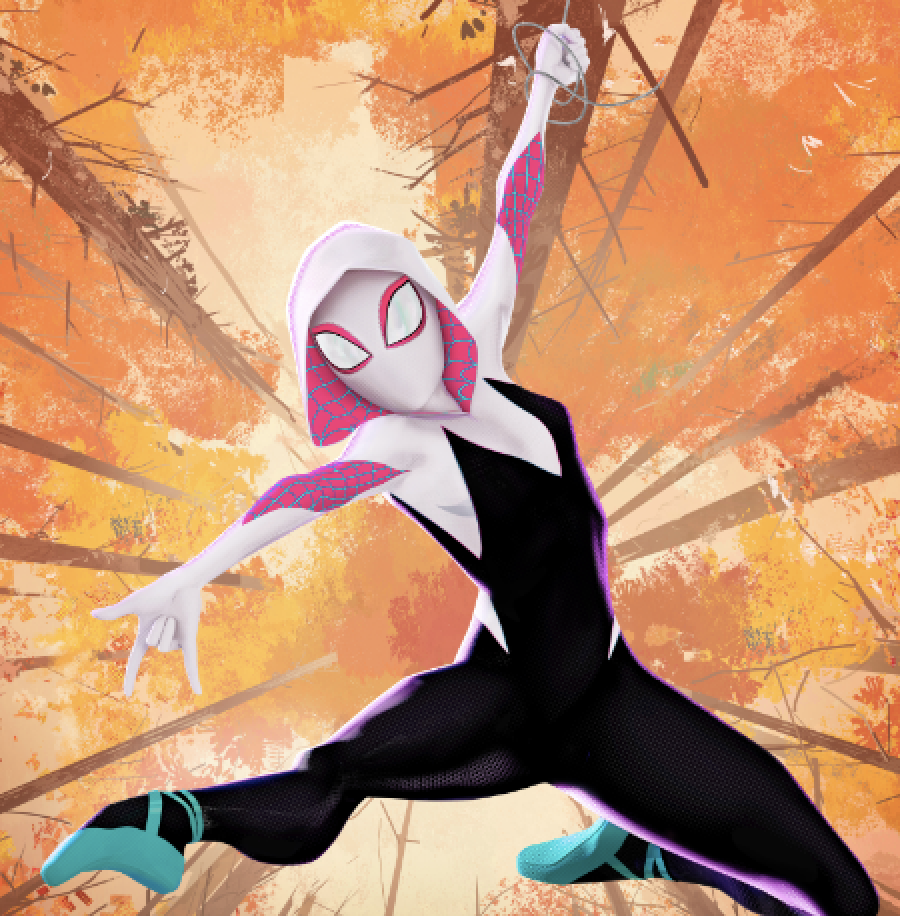
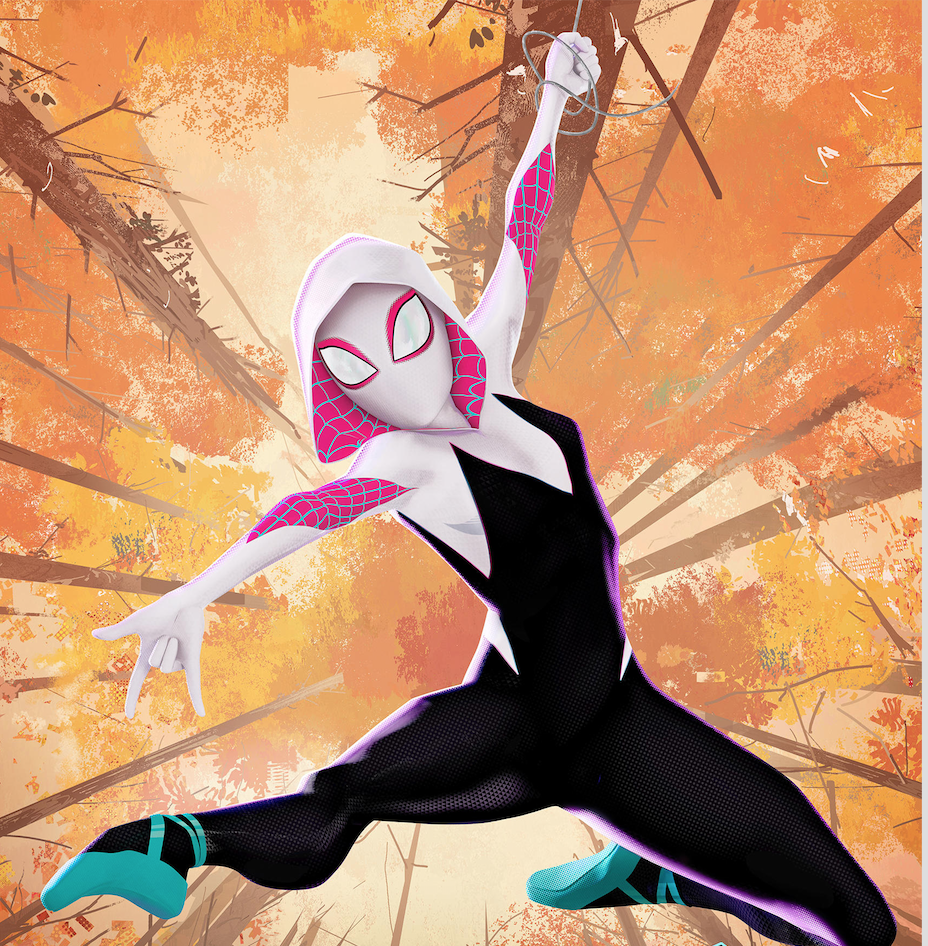
Cropped picture updates and background image updates

diff --git a/style.css b/style.css
@@ -34,84 +34,86 @@ h1 {
 
 .info {
     margin: auto;
-    border-right: 1px solid black;
+    /* border-right: 1px solid black; */
     height: 101vh;
-    width: 14%;
-    padding-left: 3%;
-    padding-right: 1%;
+    width: 16.5%;
 }
 
 
 .picture-div {
     position: relative;
-    top: 17%;
-    left: 15%;
+    top: 9.5%;
+    left: 0.5%;
     height: 55vh;
-    width: 11.5vw;
+    width: 98%;
     overflow: hidden;
 }
 
 #Spider-Ham {
-    margin: -50px;
+    margin: -25px;
     margin-top: -2px;
 }
 
 #spiderHam {
-    background-image: url("img/yellow.jpg");
-    background-size: cover;
-    background-repeat: no-repeat;
+    background-color: #FEEA01;
 }
 
 #Peni-Parker {
-    margin: -200px;
-    margin-top: -50px;
+    margin: -175px;
+    margin-top: 0px;
 }
 
 #peniParker {
-    background-image: url("img/spdr.jpg");
-    background-size: cover;
+    background-image: url("img/Sp-dr.jpg");
+    background-size: 1000%;
+    background-position-x: -10px;
     background-repeat: no-repeat;
 }
 
 #Spider-Gwen {
-    margin: -175px;
+    margin: -120px;
+    margin-top: 0px;
 }
 
 #spiderGwen {
-    background-image: url("img/gwen.jpg");
-    background-size: cover;
+    background-image: url("img/Spider-gwen.jpg");
+    background-size: 500%;
     background-repeat: no-repeat;
 }
 
 #Miles-Morales {
-    margin: -65px;
+    margin: -0px;
+    margin-top: -10px;
 }
 
 #milesMorales {
-    background-image: url("img/miles.jpg");
-    background-size: cover;
+    background-image: url("img/Miles-Morales.jpg");
+    background-size: 800%;
     background-repeat: no-repeat;
 }
 
 #SpiderMan {
-    margin: -250px;
-    margin-top: -270px;
+    margin: -260px;
+    margin-top: 20px;
 }
 
 #spiderMan {
-    background-image: url("img/spider.jpg");
-    background-size: cover;
+    background-image: url("img/Spider-Man.jpg");
+    background-size: 650%;
+    background-position-x: -35px;
     background-repeat: no-repeat;
 }
 
 #SpiderMan-Noir {
-    margin: -230px;
-    margin-top: -50px;
+    margin: -200px;
+    margin-top: 0px;
 }
 
 #Noir {
-    background-image: url("img/noir.jpg");
-    background-size: cover;
+    background-image: url("img/Spider-Man\ Noir.jpg");
+    background-size: 650%;
+    background-position-y: 100%;
+    background-position-x: 10%;
     background-repeat: no-repeat;
 }
 

diff --git a/index.html b/index.html
@@ -11,37 +11,37 @@
             <div class="info" id="spiderHam">
                 <h1>Spider-Ham</h1>
                 <div class="picture-div">
-                    <img src="img/Spider-Ham.jpg" height="175%" id="Spider-Ham">
+                    <img src="img/spiderham-iso.jpg" height="150%" id="Spider-Ham">
                 </div>
             </div>
             <div class="info" id="peniParker">
                 <h1>SP//dr</h1>
                 <div class="picture-div">
-                    <img src="img/SP-dr.jpg" height="175%" id="Peni-Parker">
+                    <img src="img/spdr-iso.jpg" height="150%" id="Peni-Parker">
                 </div>
             </div>
             <div class="info" id="spiderGwen">
                 <h1>Spider-Gwen</h1>
                 <div class="picture-div">
-                    <img src="img/Spider-Gwen.jpg" height="175%" id="Spider-Gwen">
+                    <img src="img/gwen-iso.jpg" height="150%" id="Spider-Gwen">
                 </div>
             </div>
             <div class="info" id="milesMorales">
                 <h1>Miles Morales</h1>
                 <div class="picture-div">
-                    <img src="img/Miles-Morales.jpg" height="175%" id="Miles-Morales">
+                    <img src="img/miles-iso.jpg" height="150%" id="Miles-Morales">
                 </div>
             </div>
             <div class="info" id="spiderMan">
                 <h1>Spider-Man</h1>
                 <div class="picture-div">
-                    <img src="img/Spider-Man.jpg" height="175%" id="SpiderMan">
+                    <img src="img/spiderman-iso.jpg" height="200%" id="SpiderMan">
                 </div>
             </div>
             <div class="info" id="Noir">
                 <h1>Spider-Man Noir</h1>
                 <div class="picture-div">
-                    <img src="img/Spider-Man Noir.jpg" height="175%" id="SpiderMan-Noir">
+                    <img src="img/noir-iso.jpg" height="200%" id="SpiderMan-Noir">
                 </div>
             </div>
         </section>
